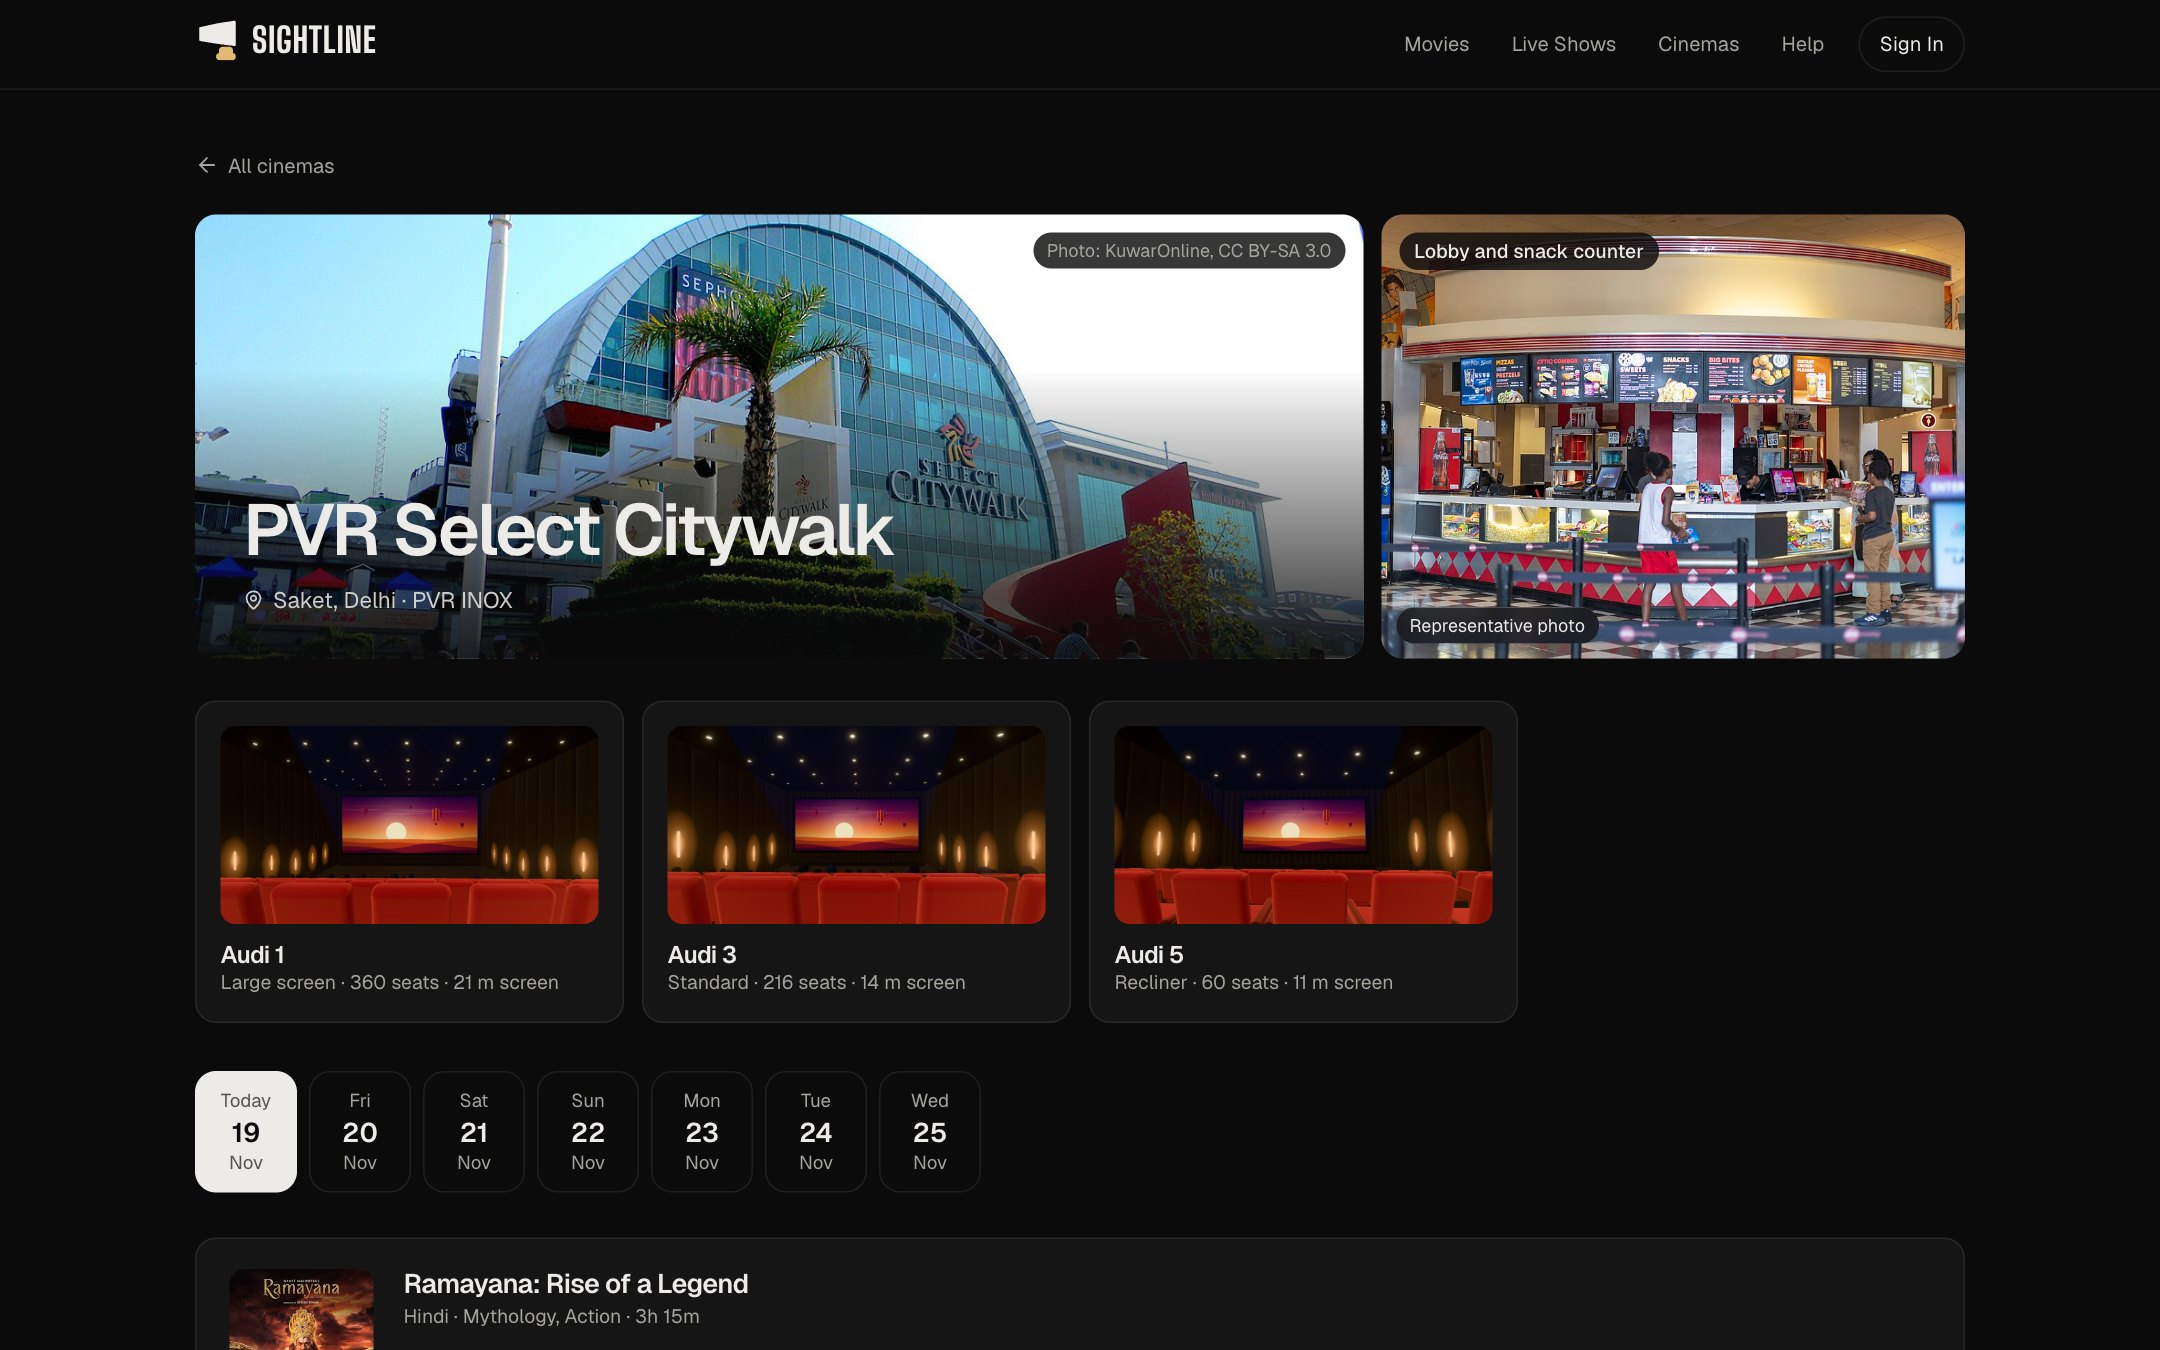
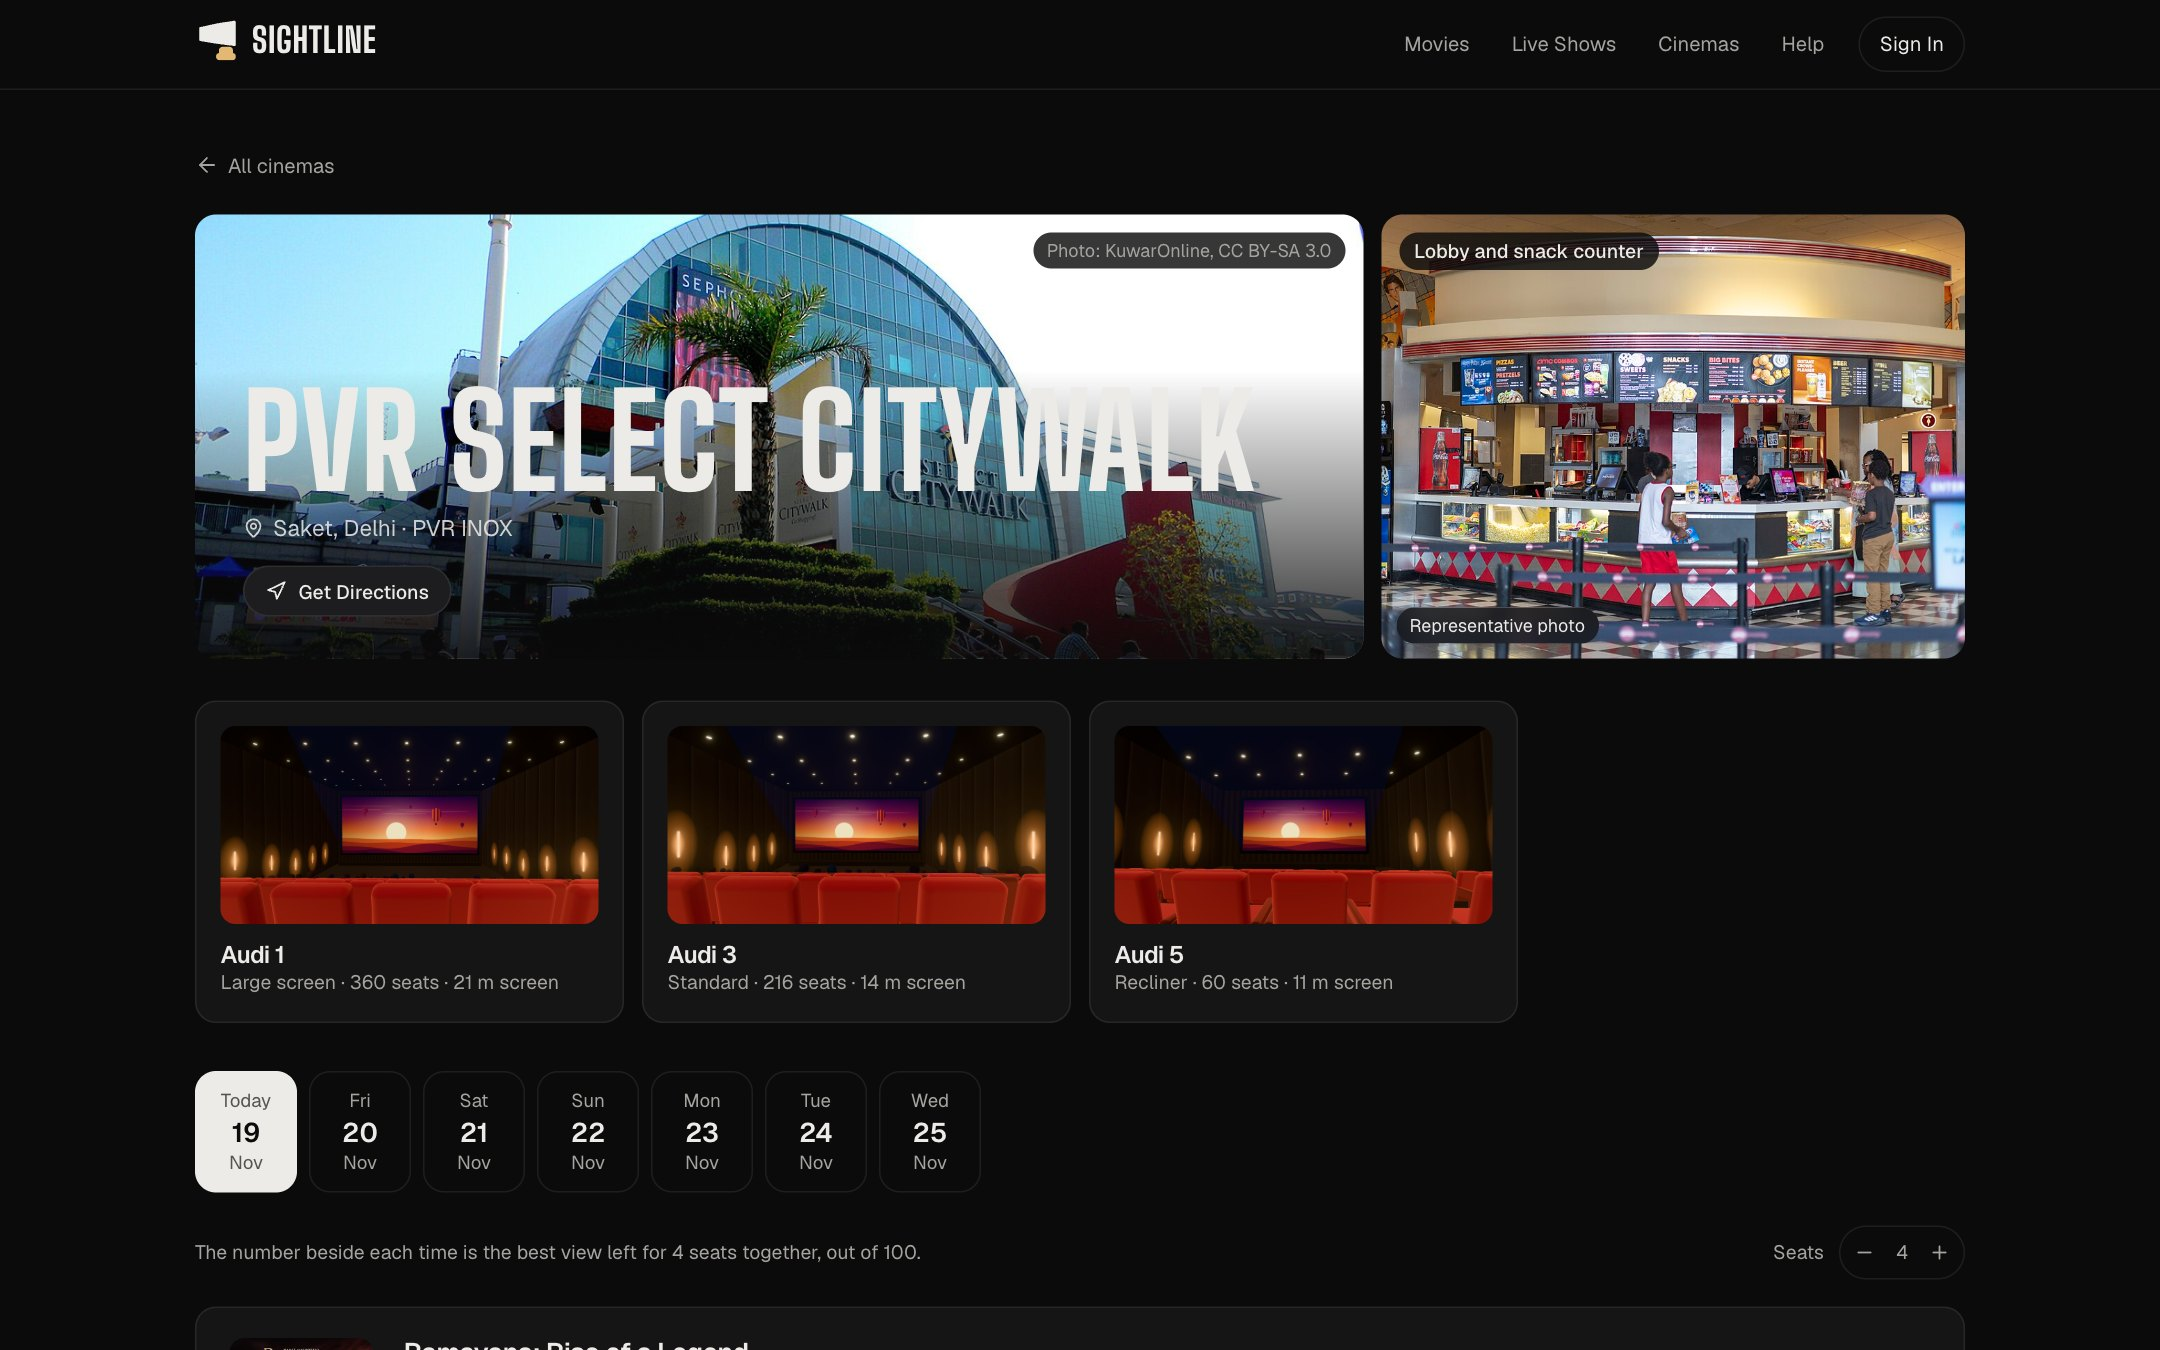
docs: describe the showtime scores and refresh screenshots
Adds the best view left on each showtime, the Delhi time fix and the
new test counts to the README, and retakes the showtimes, cinema,
checkout and ticket screenshots. Removes three screenshots that nothing
links to.

Changed region(s): [[0.0931, 0.28, 0.5894, 0.4667], [0.0931, 0.9022, 0.4343, 1.0]]

diff --git a/README.md b/README.md
@@ -12,8 +12,9 @@ Booking sites show a seat map: a grid of identical squares. It tells you where a
 
 - **Sit in any seat before you book.** The booking page opens in a 3D model of that exact auditorium, built in metres from its screen size, row spacing, rake and aisles. The camera sits at seated eye level, so the view matches the seat.
 - **A view score for every seat.** Each of the 3,456 seats across 17 auditoriums gets a score out of 100, so you can compare seats at a glance instead of reading geometry.
+- **The best view left at every showtime.** Each time in the listings carries the best score still free for your group, counting seats other people have booked, so a family of four can see that the 9:50 show still has four seats together scoring 84 while the 15:45 has only 35, before opening either.
 - **Help choosing.** A heatmap of view quality across the hall, side-by-side comparison of two seats, the most-booked seats marked on the map, and a “pick for me” that finds the best seats together for a group.
-- **The full booking flow.** Real movies and live shows, eight real Delhi cinemas, seat holds, test payments by UPI or card, tickets with a QR code and a picture of the view you chose, emails, accounts and an admin side for cinema staff.
+- **The full booking flow.** Real movies and live shows, eight real Delhi cinemas, seat holds, test payments by UPI or card, tickets with a QR code and a picture of the view you chose, directions to the cinema, emails, accounts and an admin side for cinema staff. Seats you chose but didn’t book wait on the home page for you to pick up again.
 
 ![The home page: the headline over a live 3D auditorium, with the movie's real poster on the screen](docs/screenshots/home.jpg)
 
@@ -39,6 +40,7 @@ The same model drives the 3D camera, so the number and the picture always agree.
 
 - **One number first, measurements on request.** Most people want to know whether a seat is good, not its field of view in degrees. The seat card leads with the score and a verdict (“Best in the house”); distance and angles sit behind a Details button.
 - **Show, then select.** Tapping a seat shows its view; tapping again selects it. Trying a seat costs nothing, so comparing a few before choosing is the natural thing to do.
+- **Choose a showtime by what’s left, not by how full it is.** “Filling fast” says how many seats are gone, not whether good ones remain. Each showtime shows the best view still free for the group size you set, and Pick for Me on the booking page uses the same number, so the seats the listing promised are the ones you’re offered.
 - **Social proof without inventing it.** Seats booked most often in each type of auditorium get a dot, and the free ones are listed for one-tap picking.
 - **Honest content.** The movies and cinemas are real; showtimes, prices and live shows are illustrative and labelled as such. Where no free photo of a cinema’s lobby exists, a representative photo is used and marked “Representative photo”.
 - **Built for phones.** Most cinema tickets are booked on a phone, often shortly before the show, so every page is designed at 390 px first: the 3D view stacks above the seat map and every control is thumb-sized.
@@ -66,6 +68,8 @@ The browser and the server import the same TypeScript model of every hall, seat 
 
 - **No double-booking under load.** Held and booked seats each have a unique `(show, seat)` constraint and every write runs in a transaction, so two people racing for the last seat can’t both win. Continuing to payment holds seats for 7 minutes; payment only succeeds for seats still held.
 - **Safe retries.** Each payment carries an idempotency key, so a double click or a flaky network retry returns the first booking instead of charging twice.
+- **One clock: Delhi’s.** Every showtime is built, checked and shown in India Standard Time, whatever clock the server or the visitor’s browser runs on, so a server on UTC never moves a 9:30 show or lets one be booked after it starts.
+- **Live availability for a whole listing in one request.** The listing asks the API for the seats booked or held across all its shows at once, then works out the best seats left for the group in the browser from the same hall model the server uses.
 - **A programme without a schedule table.** Showtimes are generated deterministically per cinema, auditorium and day from a seeded random number generator, so every link stays valid. Admin changes (extra shows, cancellations, new titles, prices) are stored as overrides and synced to every server process.
 - **3D that stays fast.** Hundreds of seats are drawn as instanced meshes, the scene loads only when needed so the first paint never waits for Three.js, and the booked view is captured into the ticket as an image.
 - **Security basics done properly.** Passwords hashed with scrypt, sessions stored only as hashes in HttpOnly cookies, Google sign-in with PKCE, state and nonce checks, rate limiting, origin checks on every write, and a strict Content Security Policy.
@@ -75,16 +79,16 @@ The browser and the server import the same TypeScript model of every hall, seat 
 
 | Suite | Checks | Covers |
 |---|---|---|
-| API (`npm run test:api`) | 152 | Sign-up and sessions, Google sign-in (PKCE, replay, account linking), seat holds, double-booking races, payments, refunds, ticket privacy, admin roles, schedule changes, prices, rate limits, security headers |
-| Browser (`npm run test:e2e`, Playwright) | 32 | The full journey from the home page to a paid ticket and a cancellation, the 3D view, admin pages, phone layouts, and zero errors in the browser console |
+| API (`npm run test:api`) | 157 | Sign-up and sessions, Google sign-in (PKCE, replay, account linking), seat holds, double-booking races, payments, refunds, ticket privacy, showtime availability, show times in Delhi time, admin roles, schedule changes, prices, rate limits, security headers |
+| Browser (`npm run test:e2e`, Playwright) | 35 | The full journey from the home page to a paid ticket and a cancellation, the best view left on each showtime, picking a booking back up, the 3D view, admin pages, phone layouts, and zero errors in the browser console |
 
-The API suite runs against SQLite and PostgreSQL.
+The API suite runs against SQLite and PostgreSQL, and passes with the server’s clock set to UTC.
 
 ## A closer look
 
-| Showtimes by cinema and auditorium | Seat details |
+| Showtimes with the best view left | Seat details |
 |---|---|
-| ![A movie's showtimes for the day, grouped by cinema and auditorium, each time marked by how full it is](docs/screenshots/showtimes.jpg) | ![The Details pop-up for seat M11: distance, field of view, offset from centre and head tilt](docs/screenshots/seat-details.jpg) |
+| ![A movie's Sunday showtimes, grouped by cinema and auditorium, each time with the best view score still free for four seats together and how full it is](docs/screenshots/showtimes.jpg) | ![The Details pop-up for seat M11: distance, field of view, offset from centre and head tilt](docs/screenshots/seat-details.jpg) |
 | **Live shows in the same halls** | **A cinema and its auditoriums** |
 | ![Live shows: comedy, music, cricket screenings and theatre](docs/screenshots/live-shows.jpg) | ![A cinema page with its photo, lobby and auditoriums](docs/screenshots/cinema.jpg) |
 | **Checkout with test payments** | **Ticket with the booked view** |
